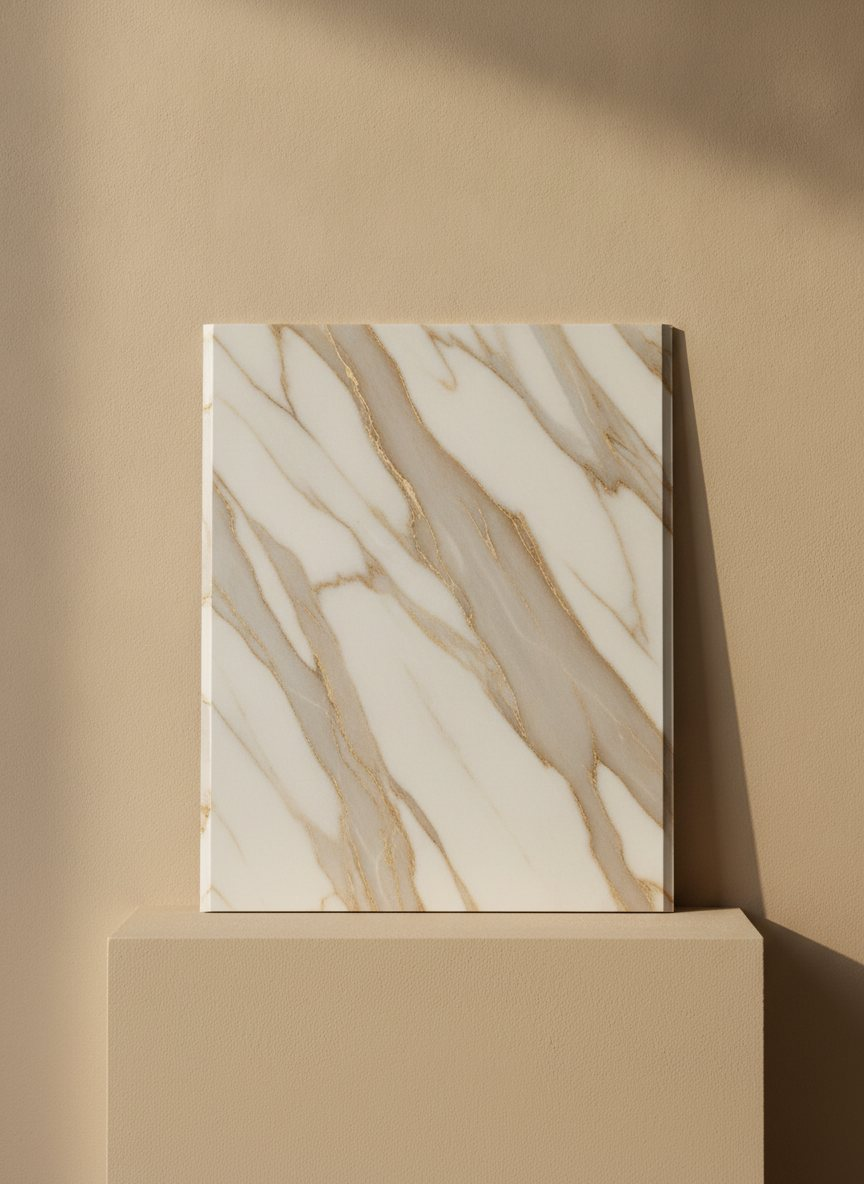
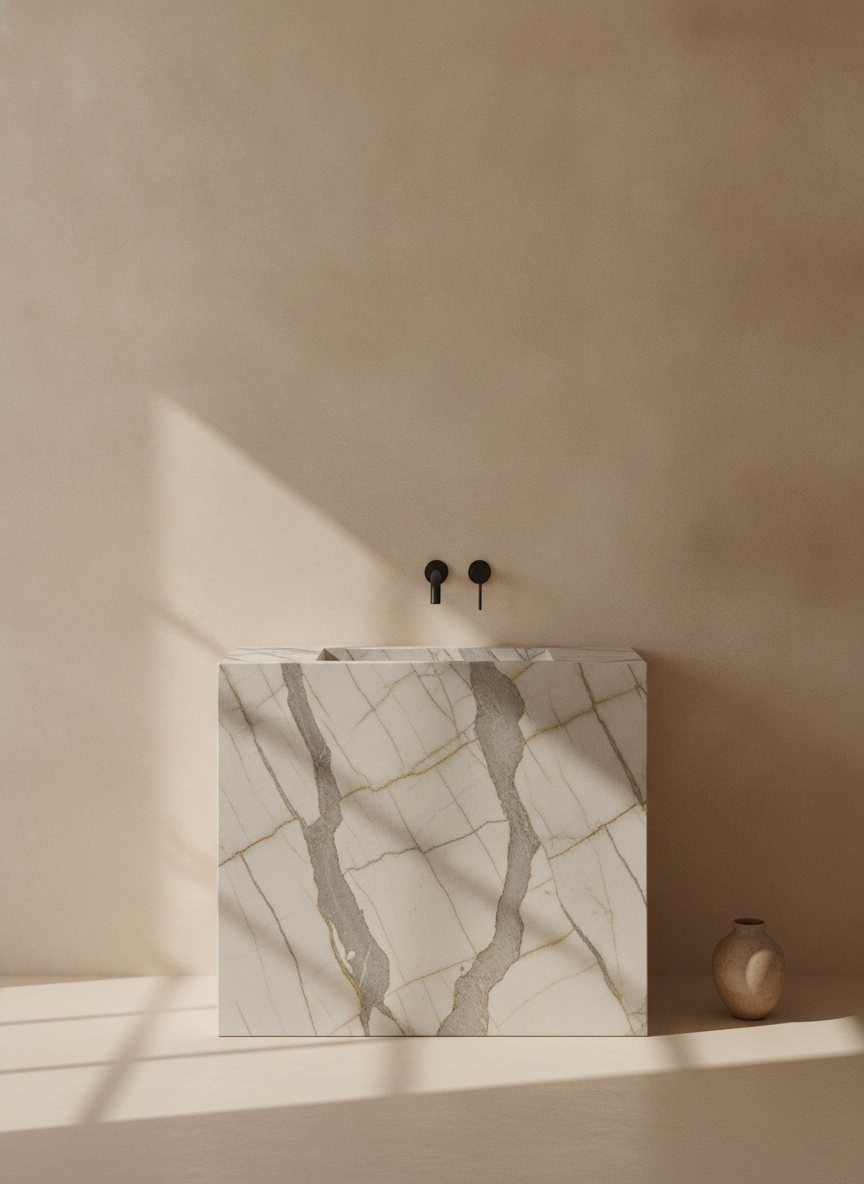
Replace material swatches with minimalist stone products
Claude-Session: https://claude.ai/code/session_01Cjzu3Aqq7aSZK1PdfcPgDp

diff --git a/evostone-es/tools/gen_materials.py b/evostone-es/tools/gen_materials.py
@@ -11,21 +11,18 @@ MODEL = os.environ.get('GEMINI_IMAGE_MODEL', 'gemini-2.5-flash-image')
 OUT = Path(__file__).resolve().parents[1] / 'assets/img'
 
 STYLE = (
-    "Editorial product photograph of a single stone sample slab, about 40 x 30 cm and 2 cm thick, "
-    "standing upright and slightly turned (about 15 degrees) on a warm beige limewash plaster plinth, "
-    "against a seamless warm beige limewash wall in the same tone (#E3D5C5). "
-    "Soft directional late-afternoon window light from the left, gentle long shadow to the right, "
-    "the polished or honed edge of the slab clearly visible. "
-    "Warm neutral colour grade, soft contrast, slightly matte blacks, palette of sand, clay and warm brown (#F5EDE3, #BCAB99, #594133). "
-    "Shot on medium format, 100 mm lens, f/5.6, sharp stone texture, shallow falloff on the background. "
-    "Vertical 3:4 framing, slab centred and filling about 60 percent of the frame. "
-    "No text, no logos, no hands, no people, no plants, no other objects."
+    "Minimalist architectural interior photograph, one single modern object made of stone as the hero, centred, "
+    "in a calm warm-beige limewash room (walls #E3D5C5), nothing else in the scene except at most one small ceramic vase. "
+    "Soft directional late-afternoon window light from the left with a gentle long shadow, "
+    "warm neutral colour grade in sand, clay and warm brown tones (#F5EDE3, #BCAB99, #594133), soft contrast, slightly matte blacks. "
+    "Shot on medium format, 50 mm lens, eye level, sharp material texture so the stone type is instantly recognisable. "
+    "Vertical 3:4 framing. Photorealistic. No text, no logos, no people."
 )
 MATERIALS = {
-    'quartz': "The slab is engineered quartz: bright warm white with very fine soft grey cloud veining and tiny sparkle, polished high-gloss surface, crisp square edge.",
-    'porcelain': "The slab is large-format porcelain stoneware with a calacatta look: warm white base with bold flowing veins in grey and soft gold, silky matte finish, thin 12 mm mitred edge.",
-    'natural': "The slab is natural marble (warm crema / light travertine tone) with irregular organic veining and natural tonal variation, honed finish, slightly rough chiselled natural edge on one side.",
-    'solid': "The slab is acrylic solid surface: seamless uniform warm white, satin finish, softly rounded bullnose edge, with a shallow integrated curved basin carved into the top showing its seamless continuity.",
+    'quartz': "The object: a sleek modern kitchen island with a thick 4 cm white engineered quartz worktop with very fine soft grey veining and subtle sparkle, polished, waterfall sides in the same quartz, flush seamless edges.",
+    'porcelain': "The object: a monolithic bathroom vanity block clad entirely in large-format calacatta-look porcelain with bold grey and soft gold veins continuing across the mitred corners, an integrated rectangular basin and a matte black wall tap above.",
+    'natural': "The object: a sculptural round pedestal side table carved from natural travertine marble with visible natural pores and warm crema banding, honed matte finish, solid stone base.",
+    'solid': "The object: a wall-hung seamless warm-white acrylic solid surface washbasin with soft organic curves flowing into a shelf, satin finish, no visible joints, a brushed brass wall tap above it.",
 }
 
 def gen(key):

diff --git a/docs/ES_PROMPTS_materiales.md b/docs/ES_PROMPTS_materiales.md
@@ -1,38 +1,35 @@
 # Промти для плашок матеріалів (Gemini)
 
-Чотири плашки мають бути в одному стилі. Тому промт складається з двох частин: **спільна частина** (сцена, світло, фон, тон, кадр) однакова для всіх, а міняється тільки **опис матеріалу**. Фон і світло підібрані під палітру сайту (#F5EDE3, #E3D5C5, #594133).
+Кожна плашка — один сучасний мінімалістичний виріб з цього матеріалу в однаковій теплій бежевій студії. **Спільна частина** однакова для всіх; міняється тільки опис виробу.
 
-Генерувати: `python evostone-es/tools/gen_materials.py` (усі 4) або `… gen_materials.py quartz` (одну). Формат 3:4, модель `gemini-2.5-flash-image` (можна змінити через `GEMINI_IMAGE_MODEL`).
+Генерувати: `~/.venvs/estone-photo/bin/python evostone-es/tools/gen_materials.py` (усі 4) або з назвою однієї (`quartz`, `porcelain`, `natural`, `solid`). Потрібен Pillow (інакше збережеться PNG).
 
-## Спільна частина (для всіх)
-
-```
-Editorial product photograph of a single stone sample slab, about 40 x 30 cm and 2 cm thick, standing upright and slightly turned (about 15 degrees) on a warm beige limewash plaster plinth, against a seamless warm beige limewash wall in the same tone (#E3D5C5). Soft directional late-afternoon window light from the left, gentle long shadow to the right, the polished or honed edge of the slab clearly visible. Warm neutral colour grade, soft contrast, slightly matte blacks, palette of sand, clay and warm brown (#F5EDE3, #BCAB99, #594133). Shot on medium format, 100 mm lens, f/5.6, sharp stone texture, shallow falloff on the background. Vertical 3:4 framing, slab centred and filling about 60 percent of the frame. No text, no logos, no hands, no people, no plants, no other objects.
-```
-
-## Cuarzo → m-quartz.jpg
+## Спільна частина
 
 ```
-The slab is engineered quartz: bright warm white with very fine soft grey cloud veining and tiny sparkle, polished high-gloss surface, crisp square edge.
+Minimalist architectural interior photograph, one single modern object made of stone as the hero, centred, in a calm warm-beige limewash room (walls #E3D5C5), nothing else in the scene except at most one small ceramic vase. Soft directional late-afternoon window light from the left with a gentle long shadow, warm neutral colour grade in sand, clay and warm brown tones (#F5EDE3, #BCAB99, #594133), soft contrast, slightly matte blacks. Shot on medium format, 50 mm lens, eye level, sharp material texture so the stone type is instantly recognisable. Vertical 3:4 framing. Photorealistic. No text, no logos, no people.
 ```
 
-## Porcelánico → m-porcelain.jpg
+## Cuarzo → m-quartz.jpg (кухонний острів)
 
 ```
-The slab is large-format porcelain stoneware with a calacatta look: warm white base with bold flowing veins in grey and soft gold, silky matte finish, thin 12 mm mitred edge.
+The object: a sleek modern kitchen island with a thick 4 cm white engineered quartz worktop with very fine soft grey veining and subtle sparkle, polished, waterfall sides in the same quartz, flush seamless edges.
 ```
 
-## Piedra natural → m-natural.jpg
+## Porcelánico → m-porcelain.jpg (тумба-моноліт з раковиною)
 
 ```
-The slab is natural marble (warm crema / light travertine tone) with irregular organic veining and natural tonal variation, honed finish, slightly rough chiselled natural edge on one side.
+The object: a monolithic bathroom vanity block clad entirely in large-format calacatta-look porcelain with bold grey and soft gold veins continuing across the mitred corners, an integrated rectangular basin and a matte black wall tap above.
 ```
 
-## Solid surface (акриловий камінь) → m-solid.jpg
+## Piedra natural → m-natural.jpg (столик з травертину)
 
 ```
-The slab is acrylic solid surface: seamless uniform warm white, satin finish, softly rounded bullnose edge, with a shallow integrated curved basin carved into the top showing its seamless continuity.
+The object: a sculptural round pedestal side table carved from natural travertine marble with visible natural pores and warm crema banding, honed matte finish, solid stone base.
 ```
 
-## Порада
-Якщо якась плашка вийшла «не в тон», допишіть у кінець її опису: `Match the exact background, light direction and colour grade of a warm beige limewash studio set.` і згенеруйте ще раз лише її.
+## Solid surface → m-solid.jpg (підвісна раковина)
+
+```
+The object: a wall-hung seamless warm-white acrylic solid surface washbasin with soft organic curves flowing into a shelf, satin finish, no visible joints, a brushed brass wall tap above it.
+```
